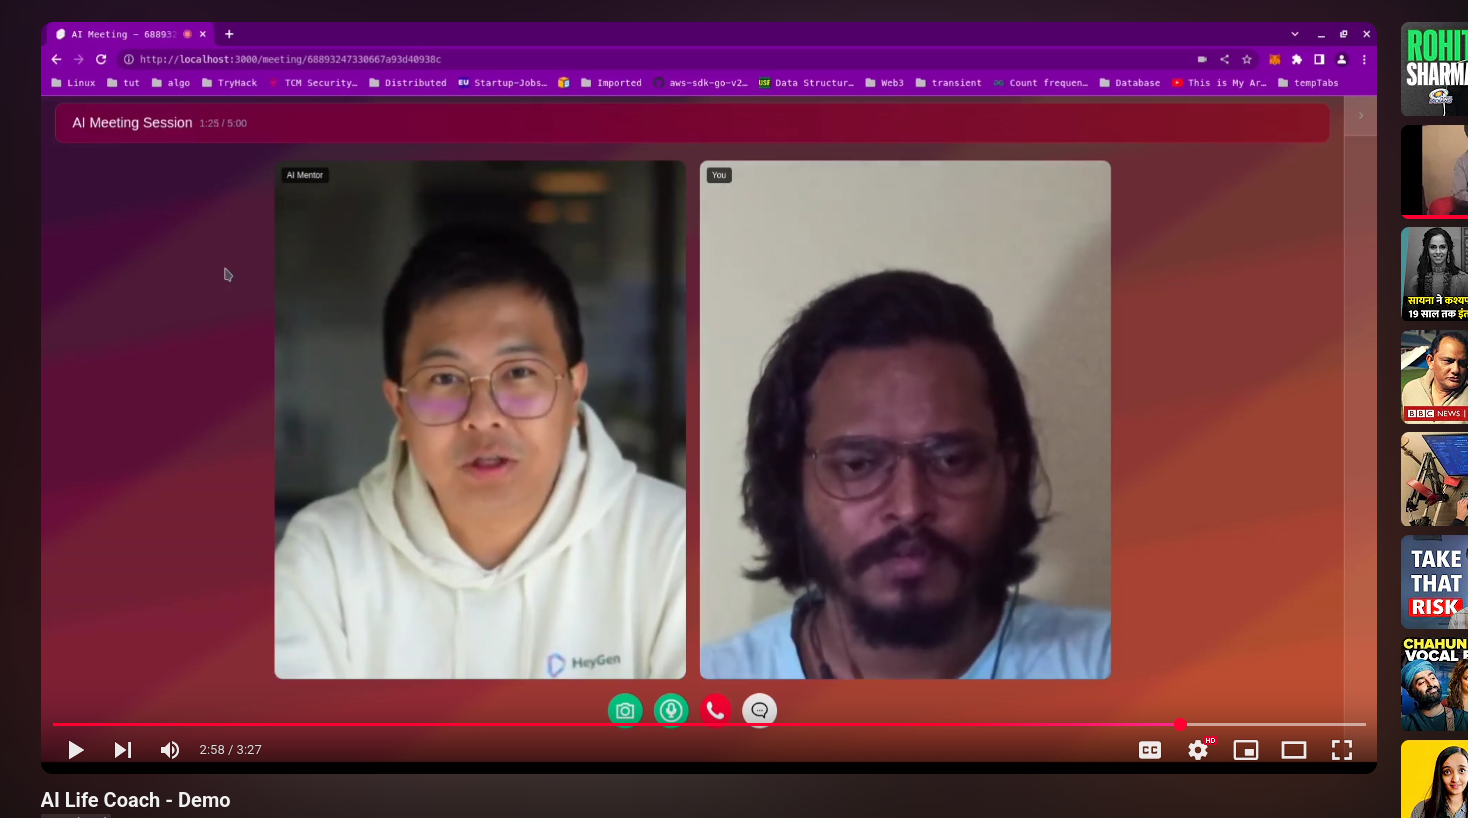
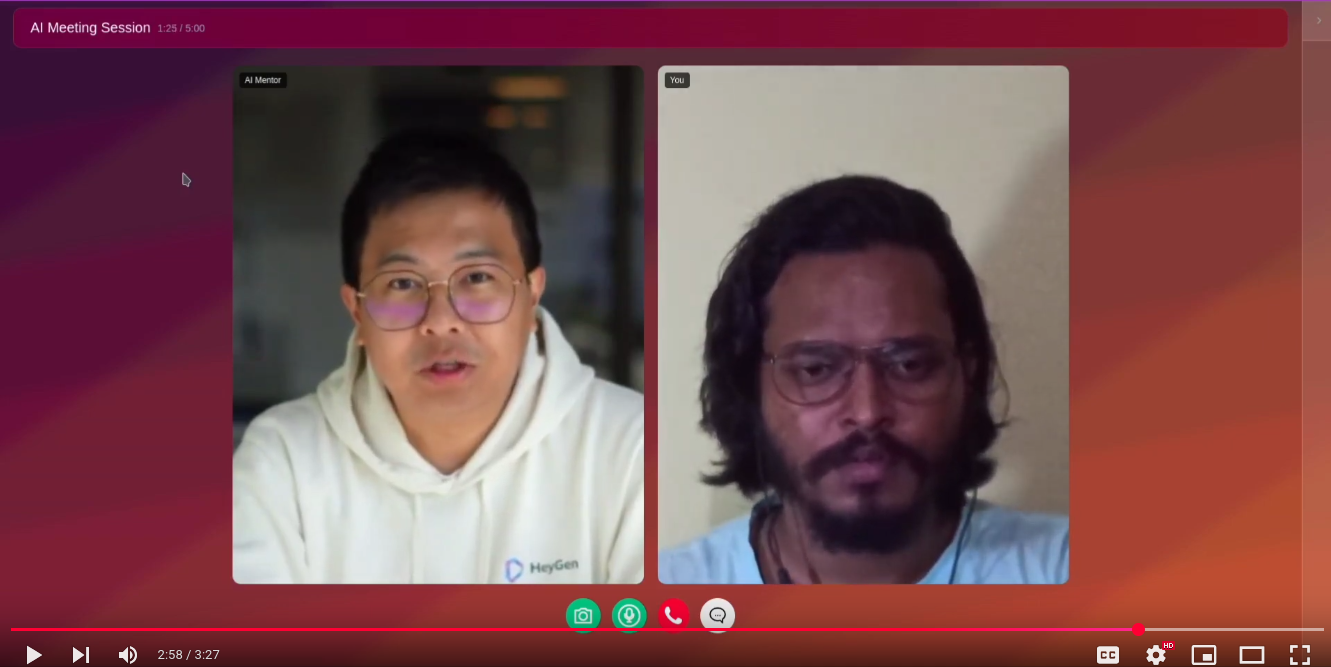
updated thumbnail

diff --git a/README.md b/README.md
@@ -31,10 +31,9 @@ This AI-powered platform combines real-time speech transcription, intelligent di
 
 ---
 
-## Demo
+## Demo - Watch it on Youtube
 
-
-[![Watch the video](https://github.com/3l-d1abl0/SelfHelp---AI-Life-Coach/blob/main/assets/AI-Life-Coach.png)](https://www.youtube.com/watch?v=JI1D07IHBkY)
+[![Watch the video](https://github.com/3l-d1abl0/SelfHelp---AI-Life-Coach/blob/main/assets/AI-Life-Coach-thumbnail.png)](https://www.youtube.com/watch?v=JI1D07IHBkY)
 
 ## 🛠 **Setup & Installation**  
 1. **Clone the repo**:  
